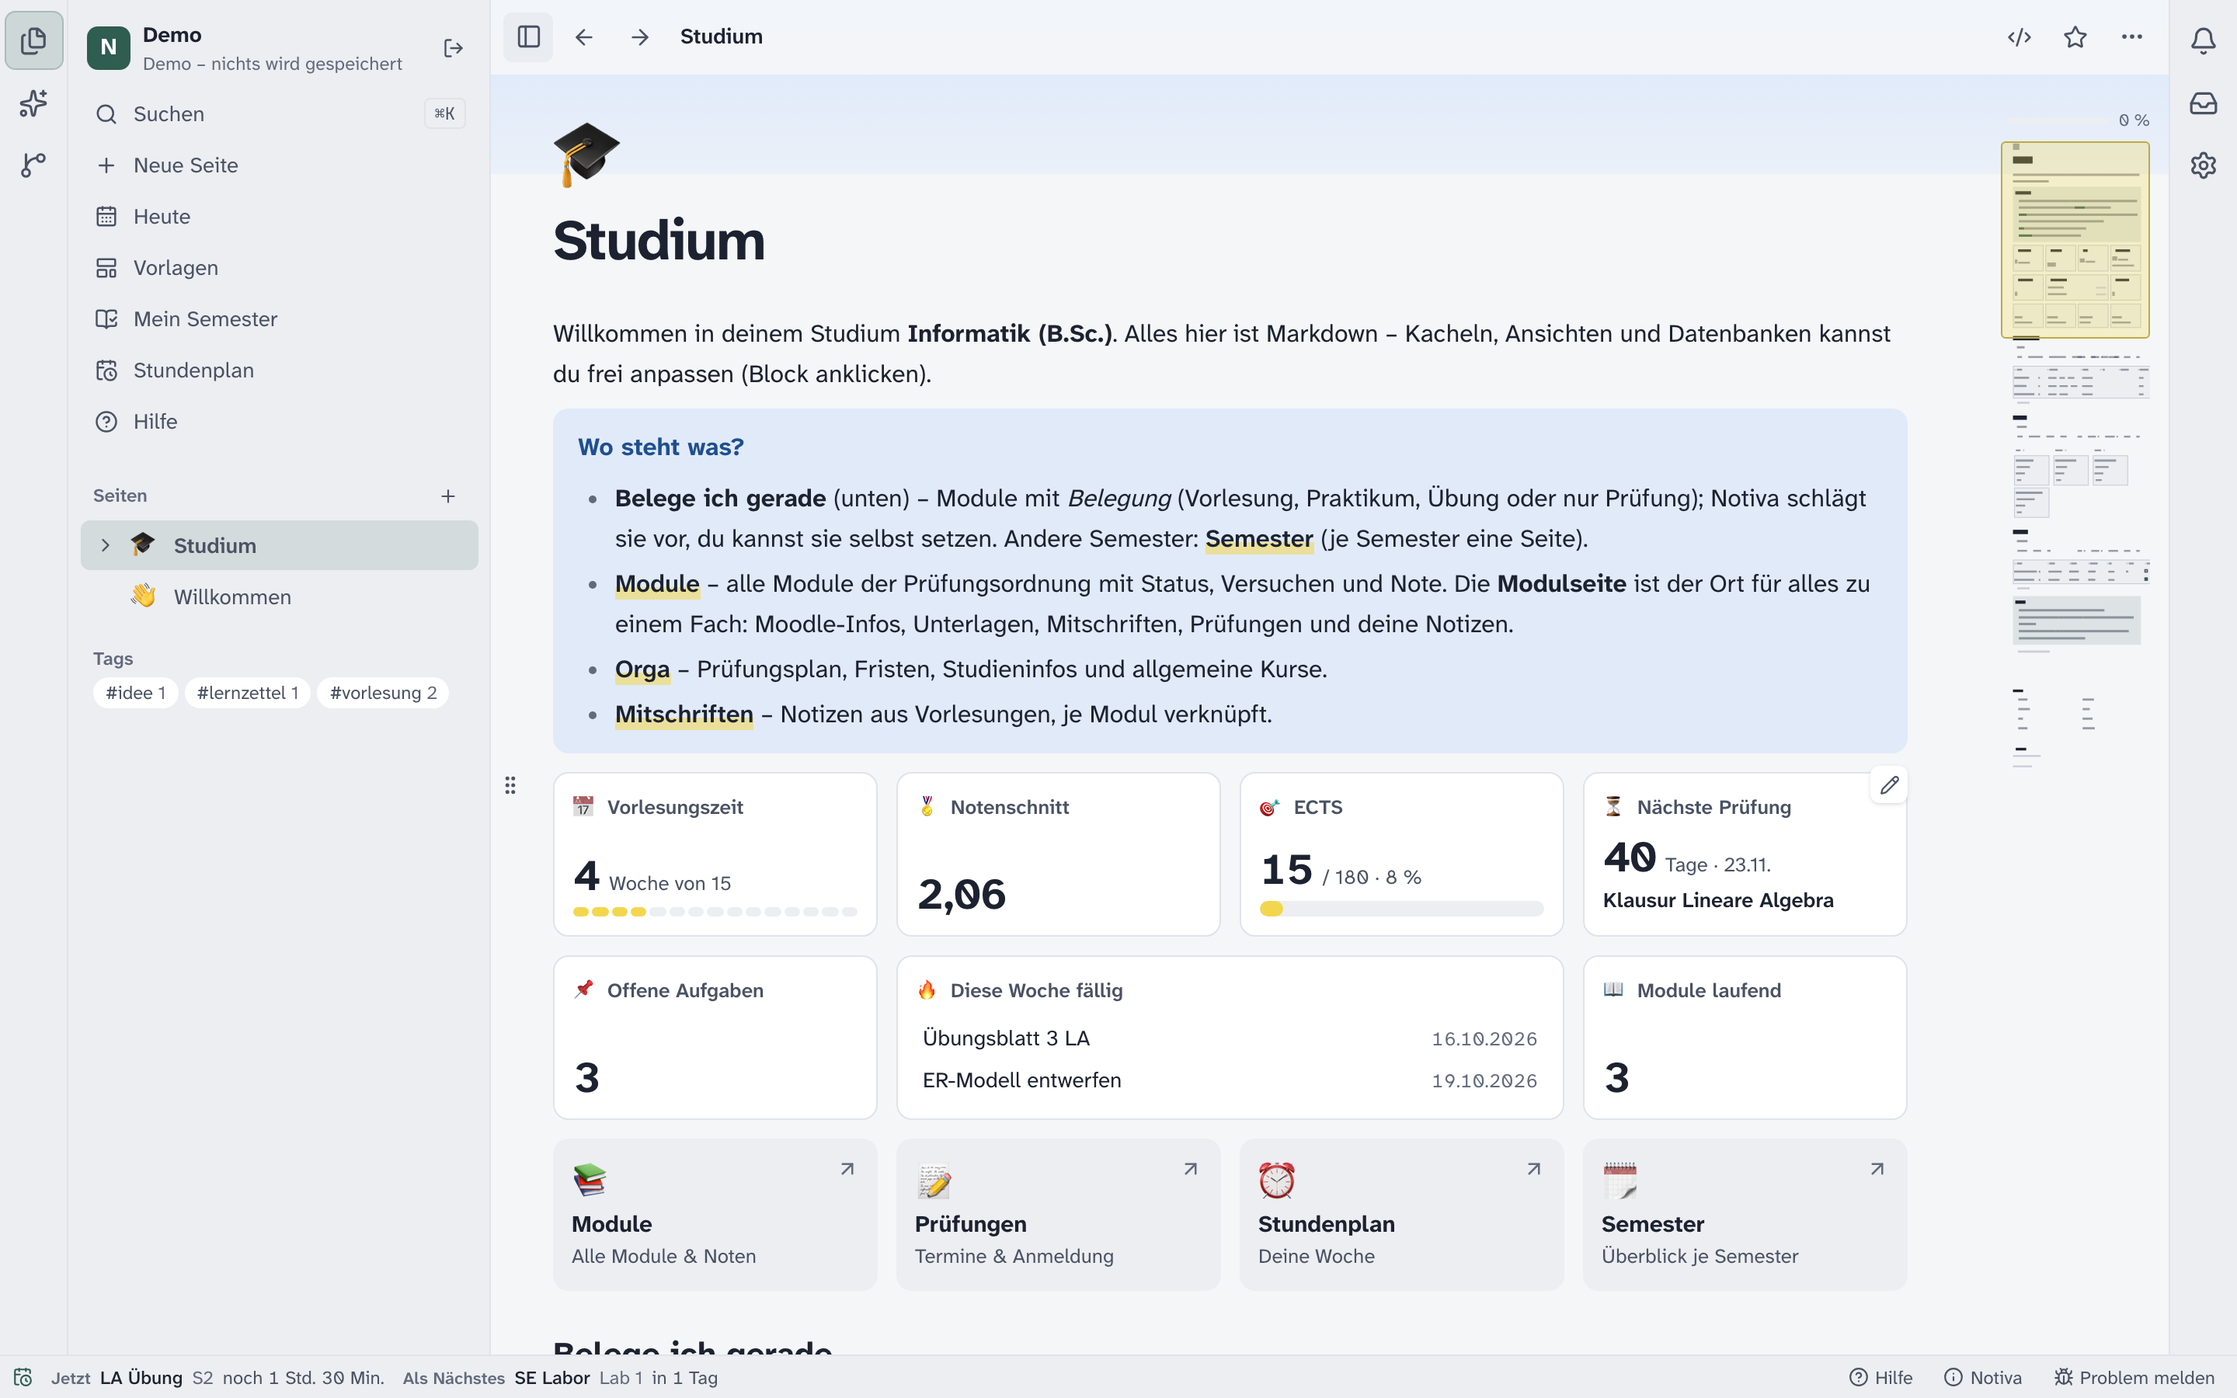
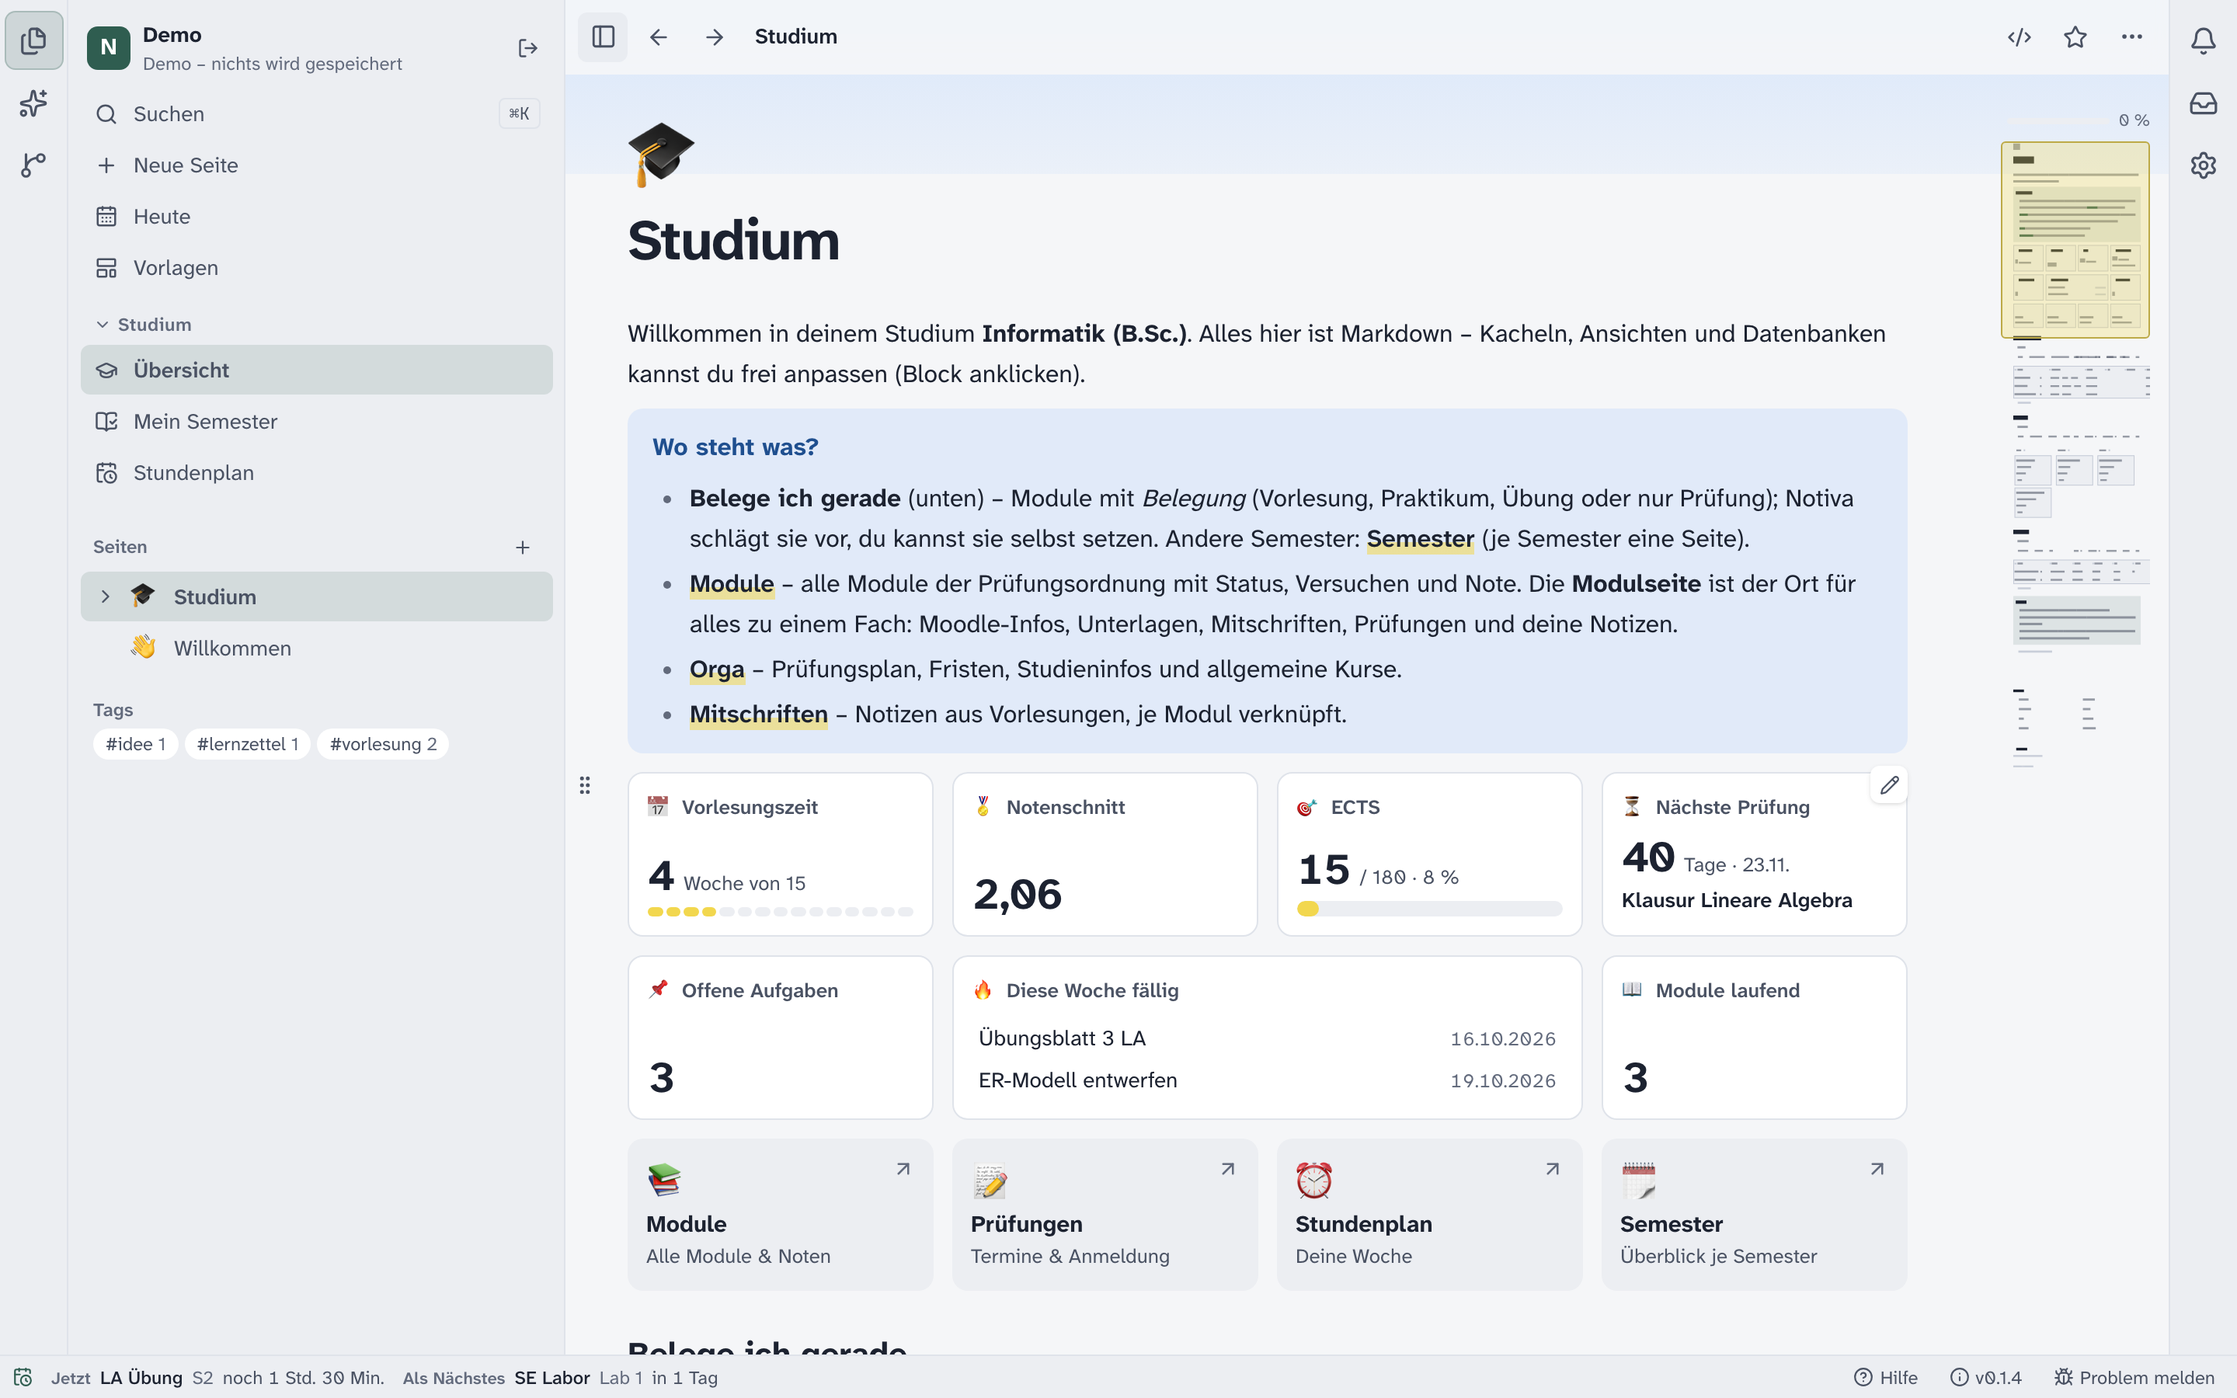
Docs and screenshots for 0.1.4; toggle buttons report aria-pressed
README, guide (de/en) and changelog describe the status bar, suggestions,
timetable sources, re-reading materials with version comparison, external
links and cloning lab repositories. Screenshots regenerated.

IconButton with `active` now sets aria-pressed, so screen readers (and the
viewer e2e tests) see whether a panel or tool is on.

diff --git a/src/components/ui/Button.tsx b/src/components/ui/Button.tsx
@@ -61,6 +61,8 @@ export const IconButton = forwardRef<HTMLButtonElement, IconButtonProps>(functio
       type={type}
       aria-label={label}
       title={label}
+      // Toggle buttons (panel open, tool active) tell screen readers their state.
+      {...(active !== undefined ? { 'aria-pressed': active } : {})}
       className={cx(
         'inline-flex items-center justify-center rounded-control text-ink-2 hover:bg-hover hover:text-ink transition-colors shrink-0 disabled:opacity-40',
         size === 'sm' ? 'size-6' : 'size-8',

diff --git a/docs/ANLEITUNG.md b/docs/ANLEITUNG.md
@@ -17,18 +17,44 @@ _Hilfe → So funktioniert Notiva_ (bitte beides gemeinsam aktuell halten). Engl
   `Studium/Hochschule.md`. Status, Versuche, Note und „Bestanden im“ füllt der eCampus-Abgleich.
 - **Belegung** schlägt Notiva aus Moodle und dem Semesterangebot vor; du kannst sie auf der Modulseite selbst setzen.
   Belegte Module erscheinen in _Mein Semester_.
-- **Unterlagen** aus Moodle landen in `Unterlagen/<Kurs>/Vorlesung`, `Praktikum & Übung` oder `Sonstiges`.
+- **Unterlagen** aus Moodle landen in `Unterlagen/<Modul>/Vorlesung`, `Praktikum & Übung` oder `Sonstiges`. Neue
+  Unterlagen schlägt Notiva vor (Hinweis und Benachrichtigung), gespeichert wird nach deiner Bestätigung.
+- **Unterlagen neu einlesen** (_Moodle_): holt Moodle neu und listet zum Abhaken auf, was abweicht. Dazu gehören
+  falsch einsortierte Dateien (die Notizseite wandert mit), fehlende Dateien und neuere Versionen.
+- **Neue Versionen** überschreiben nie deine Datei. Sie kommen als `<Name> (neu <Datum>).pdf` daneben. Unter
+  _Moodle → N neue Version(en)_ vergleicht Notiva beide Seite für Seite: geänderte Seiten gelb, neue grün,
+  entfernte aufgezählt. Danach wählst du **Alte ersetzen** (Name und Notizen bleiben) oder **Beide behalten**.
+- **Links** in Moodle (z. B. ProjectBase) öffnen im Browser, dort klappt die Anmeldung mit 2FA. Alternativ öffnen
+  sie in einem App-Fenster mit der Uni-Anmeldung. Bei Git-Projekten holt **Repository ins Praktikum holen** den
+  Code mit Fortschritt in den Praktikumsordner. Verlangt der Server eine Anmeldung, hilft **Im Terminal holen**.
 - **Alles hängt am Modul**: Die Modulseite zeigt Unterlagen, Moodle-Infos, Prüfungen, Aufgaben und Mitschriften.
   Eigene Kursseiten gibt es nicht mehr. Überblick in der App: _Hilfe → So funktioniert Notiva_.
 - **Mein Semester**: eine farbige Karte je belegtem Modul – nächster Termin, Prüfung, offene Aufgaben, neuestes
   Skript, neue Unterlagen, „Praktikum bearbeiten“.
-- **Stundenplan** (Seitenleiste): Wochenansicht in Modulfarben. „Zeiten aus Moodle vorschlagen“ liest die Kurstexte
-  und fragt pro Termin, ob er übernommen werden soll. Weicht etwas von deinen eigenen Einträgen ab, fragt
-  Notiva nach.
+- **Stundenplan** (Seitenleiste): Wochenansicht in Modulfarben. „Zeiten vorschlagen“ liest die Moodle-Kurstexte
+  und die ersten Seiten der Einführungs-PDFs. Pro Termin fragt Notiva, ob er übernommen werden soll, und nennt die
+  Quelle (Kurs oder Folie und Seite, mit dem passenden Satz). Die Quelle bleibt in der Spalte „Quelle“ und erscheint
+  beim Darüberfahren. Weicht etwas von deinen eigenen Einträgen ab, fragt Notiva nach. Auf der Modulseite stehen
+  die Termine des Moduls mit „Termin hinzufügen“ und „Zeiten suchen“.
 - **Prüfungsplan**: die neueste PDF der Fakultät wird gelesen und in _Prüfungen_ eingetragen.
 - **Hintergrund-Abrufe**: jede Quelle hat ein eigenes Intervall (_Einstellungen → Benachrichtigungen_).
 
 Andere Hochschule: [HOCHSCHULE.md](HOCHSCHULE.md) und [examples/Hochschule.md](../examples/Hochschule.md).
+
+## Statusleiste
+
+Unten am Fensterrand (wie in VS Code):
+
+- **Links:** der nächste Termin und kurze Bestätigungen („Gespeichert“).
+- **Mitte:** laufende Aufgaben mit Balken, Anzahl und Restzeit. Ein Klick öffnet die Liste. Fehler öffnen sie
+  selbst, mit Grund und Knopf zum Beheben.
+- **Rechts:**
+  - „N Vorschläge“ (öffnet die Benachrichtigungen)
+  - Hilfe
+  - Version (Info und Updates)
+  - „Problem melden“
+
+Hintergrund-Prüfungen melden in den Benachrichtigungen, was sie gefunden haben und was davon neu ist.
 
 ## PDFs und Vorlesungen
 
@@ -40,7 +66,8 @@ Andere Hochschule: [HOCHSCHULE.md](HOCHSCHULE.md) und [examples/Hochschule.md](.
 ## Code-Ordner
 
 Eine Seite mit `code: true` bekommt einen Ordner daneben: Dateiliste, Editor, Terminal (auch zwei nebeneinander),
-Links und eine Webseite daneben. Git-Commits mit Fortschrittsanzeige.
+Links und eine Webseite daneben. Git-Commits mit Fortschrittsanzeige. Links auf Git-Projekte bieten
+„Repository ins Praktikum holen“ (`git clone` in den Ordner).
 
 ## KI nutzen
 
@@ -79,8 +106,8 @@ claude mcp add notiva -- node /pfad/zu/notiva/dist-mcp/notiva-mcp.mjs /pfad/zu/d
 Für schnelle Zusammenfassungen ohne Internet und ohne Konto: _Einstellungen → KI → Lokales Mini-Modell_.
 Notiva nutzt dafür [llama.cpp](https://github.com/ggml-org/llama.cpp) (Knopf „llama.cpp installieren“: Homebrew
 bzw. winget) und ein kleines Qwen-2.5-Modell (empfohlen 1,5 B, ~1,1 GB; klein 0,5 B, ~0,5 GB), das beim ersten Mal
-mit Fortschrittsbalken geladen und per Prüfsumme kontrolliert wird. Im Git-Panel schlägt ✨ dann eine
-Commit-Nachricht vor. Das Modell läuft nur auf `127.0.0.1` und beendet sich nach 5 Minuten ohne Anfrage.
+mit Fortschrittsbalken geladen und per Prüfsumme kontrolliert wird. Im Git-Panel fasst es dann jede geänderte
+Datei zusammen und schlägt die Commit-Nachricht vor (automatisch, du kannst sie ändern; ✨ fragt neu). Das Modell läuft nur auf `127.0.0.1` und beendet sich nach 5 Minuten ohne Anfrage.
 
 ## Anmeldung (Microsoft)
 

diff --git a/docs/GUIDE.en.md b/docs/GUIDE.en.md
@@ -16,17 +16,43 @@ Everything beyond the [README](../README.en.md). Deutsch: [ANLEITUNG.md](ANLEITU
   `Studium/Hochschule.md`. Status, attempts, grade and "passed in" are filled by the eCampus sync.
 - **Belegung** (what you take) is suggested from Moodle and the term's offer; set it yourself on the module page.
   Modules you take appear in _My semester_.
-- **Materials** from Moodle go to `Unterlagen/<course>/Vorlesung`, `Praktikum & Übung` or `Sonstiges`.
+- **Materials** from Moodle go to `Unterlagen/<module>/Vorlesung`, `Praktikum & Übung` or `Sonstiges`. New
+  materials are suggested (hint and notification) and saved once you confirm.
+- **Re-read materials** (_Moodle_): fetches Moodle again and lists what differs for you to tick: misplaced files
+  (their notes page moves along), missing files and newer versions.
+- **New versions** never overwrite your file. They go next to it as `<name> (neu <date>).pdf`. Under
+  _Moodle → N new version(s)_, Notiva compares both page by page: changed pages yellow, new ones green, removed
+  ones listed. Then you choose **Replace old** (name and notes stay) or **Keep both**.
+- **Links** in Moodle (e.g. ProjectBase) open in the browser, where sign-in with 2FA works. Alternatively they open
+  in an app window with the university sign-in. For Git projects, **Get repository into the lab** clones the code
+  into the lab folder with progress. If the server needs a login, use **Get it in the Terminal**.
 - **Everything hangs on the module**: its page shows materials, Moodle info, exams, tasks and notes. There are no
   separate course pages. Overview in the app: _Help → How Notiva works_.
 - **My semester**: one coloured card per module you take – next session, exam, open tasks, newest script, new
   materials, "Work on the lab".
-- **Timetable** (sidebar): week view in module colours. "Suggest times from Moodle" reads the course texts and asks
-  for each session whether to add it. If they differ from your own entries, Notiva asks.
+- **Timetable** (sidebar): week view in module colours. "Suggest times" reads the Moodle course texts and the first
+  pages of intro PDFs. For each session it asks whether to add it and names the source (course or slide and page,
+  with the matching sentence). The source stays in the "Quelle" column and shows on hover. If something differs
+  from your own entries, Notiva asks. The module page lists its sessions with "Add session" and "Find times".
 - **Exam schedule**: the faculty's newest PDF is read into _Prüfungen_.
 - **Background checks**: every source has its own interval (_Settings → Notifications_).
 
 Another university: [HOCHSCHULE.md](HOCHSCHULE.md) (German) and [examples/Hochschule.md](../examples/Hochschule.md).
+
+## Status bar
+
+At the bottom edge of the window (like VS Code):
+
+- **Left:** the next session and short confirmations ("Saved").
+- **Middle:** running tasks with a bar, count and time left. A click opens the list. Errors open it by themselves,
+  with a reason and a fix button.
+- **Right:**
+  - "N suggestions" (opens the notifications)
+  - Help
+  - Version (about and updates)
+  - "Report a problem"
+
+Background checks report in the notifications what they found and what of it is new.
 
 ## PDFs and lectures
 
@@ -38,7 +64,8 @@ Another university: [HOCHSCHULE.md](HOCHSCHULE.md) (German) and [examples/Hochsc
 ## Code folders
 
 A page with `code: true` gets a folder next to it: file list, editor, terminal (two side by side if you like), links
-and a web page beside it. Git commits with a progress display.
+and a web page beside it. Git commits with a progress display. Links to Git projects offer "Get repository into the
+lab" (`git clone` into the folder).
 
 ## AI
 
@@ -67,7 +94,8 @@ claude mcp add notiva -- node /path/to/notiva/dist-mcp/notiva-mcp.mjs /path/to/y
 For quick summaries without internet or account: _Settings → AI → Local mini model_. Notiva uses
 [llama.cpp](https://github.com/ggml-org/llama.cpp) (button "Install llama.cpp": Homebrew or winget) and a small
 Qwen 2.5 model (recommended 1.5 B, ~1.1 GB; small 0.5 B, ~0.5 GB), downloaded once with a progress bar and checked
-by checksum. In the Git panel ✨ then suggests a commit message. The model only listens on `127.0.0.1` and stops
+by checksum. In the Git panel it then summarises every changed file and suggests the commit message (automatically;
+you can edit it, ✨ asks again). The model only listens on `127.0.0.1` and stops
 after 5 idle minutes.
 
 ## Sign-in (Microsoft)

diff --git a/CHANGELOG.md b/CHANGELOG.md
@@ -18,6 +18,25 @@ Notiva prüft beim Start und jede Stunde, ob es eine neue Version gibt, und inst
 - **Hilfe:** „So funktioniert Notiva“ in der App, Doku aktualisiert (#9).
 - **Auswahl** in Seiten- und Werkzeugleiste als Fläche statt Strich (#10).
 - **Einstellungen** neu gegliedert, mit Beschreibung je Bereich und „Über Notiva“ (#11).
+- **Statusleiste** unten wie in VS Code:
+  - nächster Termin, Bestätigungen und Fortschritt mit Anzahl und Restzeit;
+  - „N Vorschläge“, Hilfe, Version und „Problem melden“ (#7, #12, #22).
+- **KI-Kontext:** aktuelle Seite oder ganzes PDF per Umschalter (#13).
+- **Benachrichtigungen:** jede Prüfung meldet „gefunden – neu“, farbig nach Art. Neue Unterlagen werden vorgeschlagen
+  statt still gespeichert. Bestätigungen erscheinen in der Statusleiste statt über dem Inhalt (#14, #24).
+- **Git:** Das lokale Modell fasst jede geänderte Datei zusammen und schlägt die Commit-Nachricht automatisch vor (#15).
+- **Seitenleiste:** eine Breite für alle Ansichten, Gruppe „Studium“ zum Einklappen, bis zu 8 zuletzt geöffnete
+  Dateien (#16, #23).
+- **Hilfe:** Ein Klick auf einen Ort zeigt die ausführliche Erklärung und „Öffnen“ (#17).
+- **Stundenplan:**
+  - Vorschläge nennen ihre Quelle (Moodle-Kurs bzw. Folie und Seite) und werden auch in Einführungsfolien gesucht.
+  - Die Modulseite zeigt die Termine des Moduls (#18).
+- **Unterlagen neu einlesen:** umsortieren (Notizen wandern mit), Fehlendes laden, neuere Versionen daneben legen.
+  „Neue Versionen“ vergleicht sie Seite für Seite; danach entscheidest du: ersetzen oder beide behalten (#19).
+- **Stichwörter:** „VL“ und „P01“ werden als Vorlesung bzw. Praktikum erkannt (#20).
+- **Externe Links** (z. B. ProjectBase) öffnen im Browser oder im App-Fenster. Git-Projekte holt
+  „Repository ins Praktikum holen“ in den Praktikumsordner (#21).
+- Behoben: Die ganze Oberfläche ließ sich aus dem Fenster scrollen (#25).
 
 ## 0.1.3 – 2026-10-15
 

diff --git a/README.md b/README.md
@@ -86,12 +86,15 @@ das den KI-Assistenten machen ([Andere Hochschule?](#andere-hochschule)).
 - 📝 **Markdown-Editor** wie Notion: `/`-Befehle, `[[Links]]`, Aufgaben, Callouts, Formeln, Code mit Kopier-Knopf.
 - 🎓 **Studium**: Module mit Status, Versuchen und Note, gewichteter Notenschnitt, ECTS, Prüfungen, Stundenplan,
   Anzeige „Jetzt / Als Nächstes“.
-- 🗓 **Stundenplan** als Wochenansicht in Modulfarben – Zeiten aus Moodle werden vorgeschlagen, nicht still eingetragen.
+- 🗓 **Stundenplan** als Wochenansicht in Modulfarben – Zeiten aus Moodle und Folien werden mit Quelle vorgeschlagen,
+  nicht still eingetragen.
+- 📄 **Neue Skript-Versionen** kommen neben deine Datei und werden Seite für Seite verglichen – du entscheidest.
 - 🎙 **Vorlesungsmodus**: nimmt auf, schreibt lokal mit Whisper mit und folgt den Folien.
 - 🧠 **Lokales Mini-Modell** (llama.cpp + Qwen) für schnelle Zusammenfassungen wie Commit-Nachrichten – offline.
 - 🤖 **KI-Assistent** mit sichtbarem Kontext (Claude Code, Codex, Ollama, eigene Schlüssel) und MCP-Server.
 - 🔔 **Benachrichtigungen** für neue Unterlagen, Fristen, Noten und Ausfälle.
-- 🌿 **Git eingebaut**: Änderungen, Diff, Commit, Verlauf, Push/Pull.
+- 🌿 **Git eingebaut**: Änderungen, Diff, Commit mit automatischer Zusammenfassung, Verlauf, Push/Pull; Praktikums-Repos
+  aus Moodle-Links holen.
 - 📥 **Ablage** für schnell abgelegte Dateien und Texte.
 - 🗂 **Tabellen, Boards und Kalender** für Aufgaben, Prüfungen und Module – jede Zeile ist eine Markdown-Datei.
 

diff --git a/README.en.md b/README.en.md
@@ -86,12 +86,15 @@ assistant ([Another university?](#another-university)).
 
 - 📝 **Markdown editor** like Notion: `/` commands, `[[links]]`, tasks, callouts, math, code with a copy button.
 - 🎓 **Studies**: modules with status, attempts and grade, ECTS-weighted average, exams, timetable, a "now / next" badge.
-- 🗓 **Timetable** as a week view in module colours – times from Moodle are suggested, never entered silently.
+- 🗓 **Timetable** as a week view in module colours – times from Moodle and slides are suggested with their source,
+  never entered silently.
+- 📄 **New script versions** go next to your file and are compared page by page – you decide.
 - 🎙 **Lecture mode**: records, transcribes locally with Whisper and follows the slides.
 - 🧠 **Local mini model** (llama.cpp + Qwen) for quick summaries like commit messages – offline.
 - 🤖 **AI assistant** with visible context (Claude Code, Codex, Ollama, your own keys) and an MCP server.
 - 🔔 **Notifications** for new materials, deadlines, grades and cancelled lectures.
-- 🌿 **Built-in Git**: changes, diff, commit, history, push/pull.
+- 🌿 **Built-in Git**: changes, diff, commit with an automatic summary, history, push/pull; get lab repositories
+  from Moodle links.
 - 📥 **Shelf** for files and text put aside quickly.
 - 🗂 **Tables, boards and calendars** for tasks, exams and modules – every row is a Markdown file.
 
